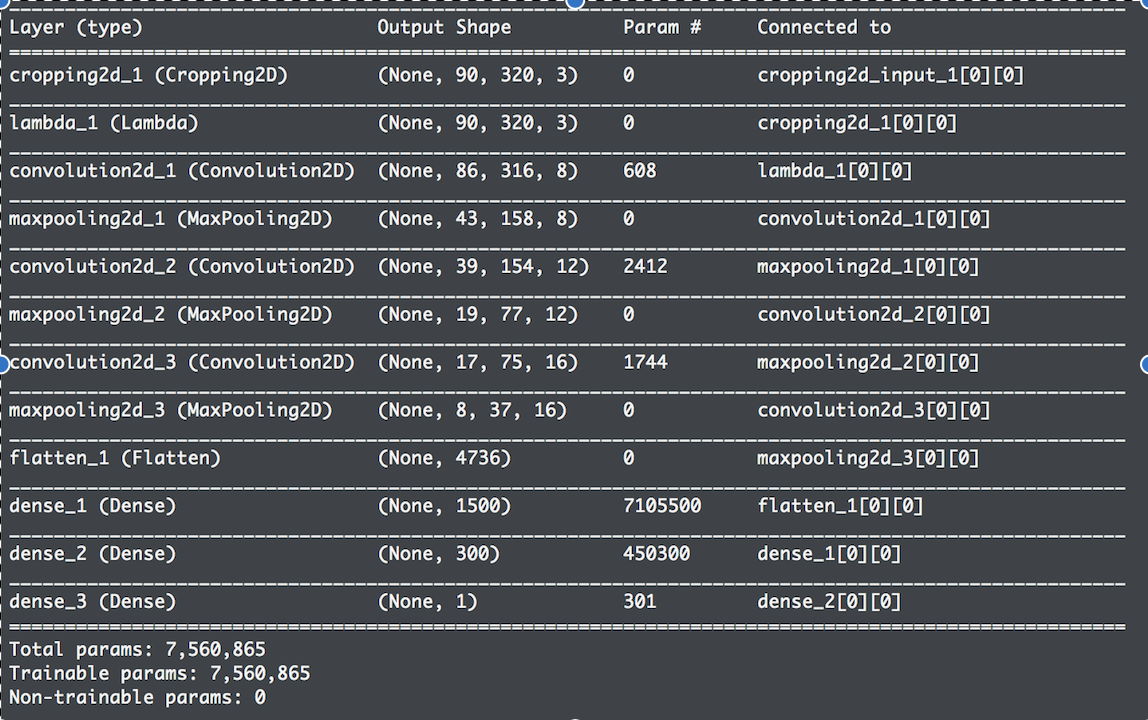
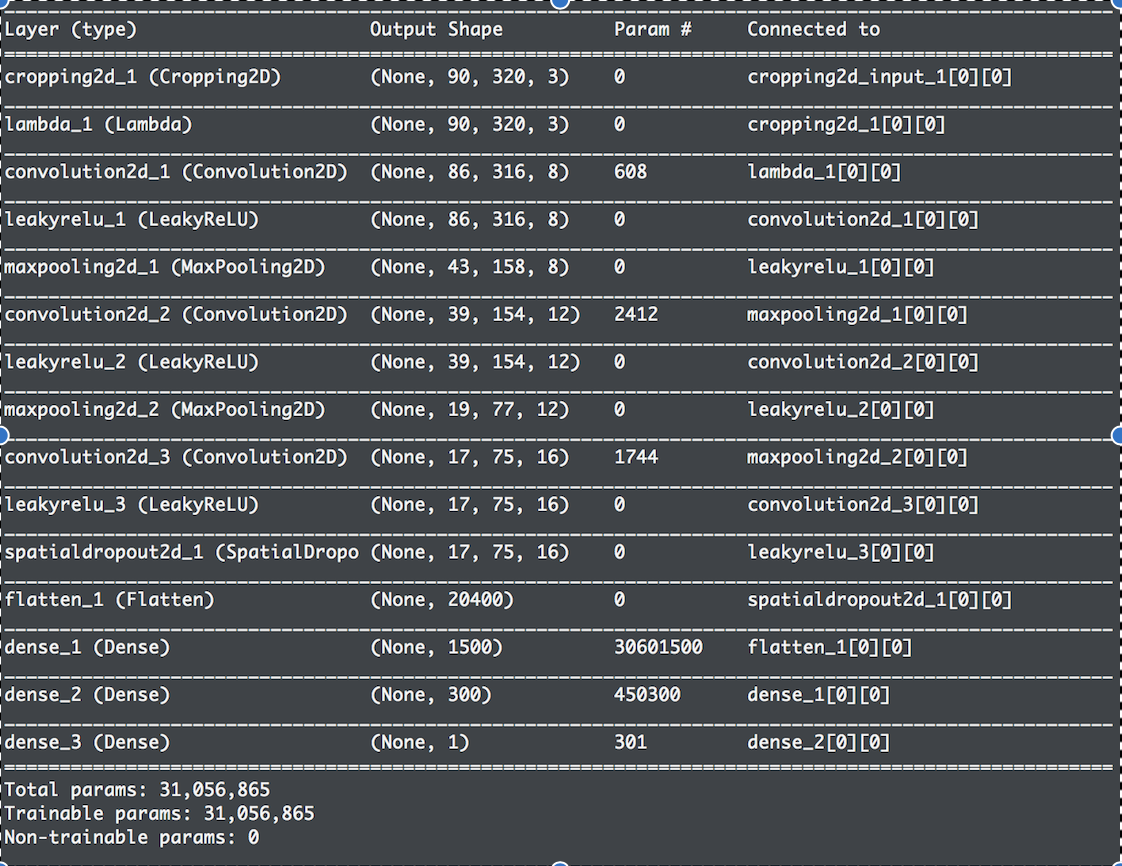
Update the report with new model architecture description.

diff --git a/report.md b/report.md
@@ -48,30 +48,35 @@ Also, the model.py file contains the code written to extract the training images
 The keras model I created consisted of total of 9 layers.
 
 * The first layer is the Cropping2D layer through which I cropped the image so that only the important parts of the image are seen by the model (The road, side lines etc). This eliminated the hood of the car and any scenery or sky from the image which is not relevant for the model.
-(modely.py line 138)
+(modely.py line 186)
 
 * The second layer consisted of Lambda normalization layer. This layer helps normalize the image which might have extreme pixel values at certain points.
-(model.py line 141)
+(model.py line 189)
 
-* The third, fourth and fifth layers are the convolution layers with increasing filter size of 8, 12 and 16 respectively. The filter size varied from 5x5 to 3x3 in the end. These layers use the RELU activation function to introduce nonlinearity.
-(model.py lines 145-154)
+* The third, fourth and fifth layers are the convolution layers with increasing filter size of 8, 12 and 16 respectively. The filter size varied from 5x5 to 3x3 in the end. These layers use the LeakyReLU activation function to introduce nonlinearity with little weights given to output values which does not pass threshold.
+(model.py lines 191-222)
 
 * The sixth layer is the flatten layer to convert convolution inputs into one single output.
-(model.py line 160)
+(model.py line 229)
 
 * After this, three Dense layers or fully connected layers were added.
-(model.py lines 161-165)
+(model.py lines 232-240)
+
 
 ##### Attempts to reduce overfitting in the model
 The model made use of flipped images in order to generalize better.
 
 I augmented my own training dataset with Udacity provided dataset in order to reduce overfitting and generalize better.
 
+I also used LeakyReLU and SpatialDropout layers in the model to reduce overfitting.
+
 I then ran the saved model.h5 file to be used with simulator to verify that the car is well inside the lanes and even if it touches the lane, the model brings it back to center of lane.
+
 
 ##### Model parameter tuning
 
-The model used an adam optimizer, so the learning rate was not tuned manually (model.py line 172).
+The model used an adam optimizer, so the learning rate was not tuned manually (model.py line 247).
+
 
 ##### Appropriate training data
 
@@ -94,9 +99,12 @@ This model was appropriate as it did not had so many features to work on but sim
 
 The validation loss now decreased considerably and performed well also in the simulator with some minor errors. I added more training data and data augmentation which improved the results in such a way that the car was now able to drive by itself with no errors.
 
+Lastly, I implemented LeakyReLU and SpatialDropout layers to further reduce overfitting and generalize better. This is evident when running the car in simulator in autonomous mode.
+
+
 ##### Final Model Architecture
 
-The final model architecture (model.py lines 135-165) consisted of a convolution neural network with the following layers and layer sizes:
+The final model architecture (model.py lines 170-244) consisted of a convolution neural network with the following layers and layer sizes:
 
 ![alt text][image1]
 
@@ -129,7 +137,7 @@ I also recorded some portion of data on second track so that model does not lear
 
 
 To augment the data set, I used the left and right image points too so that model can learn to steer back into position if it gets too much close to left or right track.
-(model.py lines 60-98)
+(model.py lines 70-107)
 
 
 I also flipped images and angles thinking that this would eliminate left-steering bias of track one. For example, here is an image that has been flipped:
@@ -139,8 +147,20 @@ I also flipped images and angles thinking that this would eliminate left-steerin
 ![alt text][image10]
 
 
-After the collection process, I had total of 18,714 images (including augmented images) for the model to train upon. I then preprocessed this data by first cropping the image and keeping only the relevant parts of the image. About 50 pixels from the top of the image were neglected and similarly 20 pixels from bottom were removed.
+After the collection process, I had total of 25,422 images (including augmented images) for the model to train upon. I then preprocessed this data by first cropping the image and keeping only the relevant parts of the image. About 50 pixels from the top of the image were neglected and similarly 20 pixels from bottom were removed.
 
-I used adam optimizer to train the model so that manually training the learning rate was not necessary. The ideal number of epochs (6) was found after running several runs. The loss first decreases and then increases by epoch 4 and then finally decreases as it reaches epoch 6. I used the Keras built-in fit method to train on the data while also setting the shuffle to true to shuffle the data so as to prevent model learning particular way of driving by seeing sequence of driving images.
+I used Adam optimizer to train the model so that manually training the learning rate was not necessary.
+(model.py line 247)
 
-I also used the validation feature of fit method and put aside 20% of the training data as validation set.
+The ideal number of epochs (10) was found after running several runs.
+I used the ModelCheckpoint method to automatically save the best model with least validation loss.
+(model.py line 251-252)
+
+I also used the generators for both training and validation sets to reduce memory consumption and process images in batches only.
+(model.py line 138-161, 261)
+
+The loss first decreases and then increases by epoch 4 and then finally decreases as it reaches epoch 8.
+
+I used the Keras built-in fit_generator method to train on the data and used generators to return batch size of 32 shuffled images.
+
+I also used train_test_split method from sklearn to split the training data and put aside 20% of the training data as validation set.
